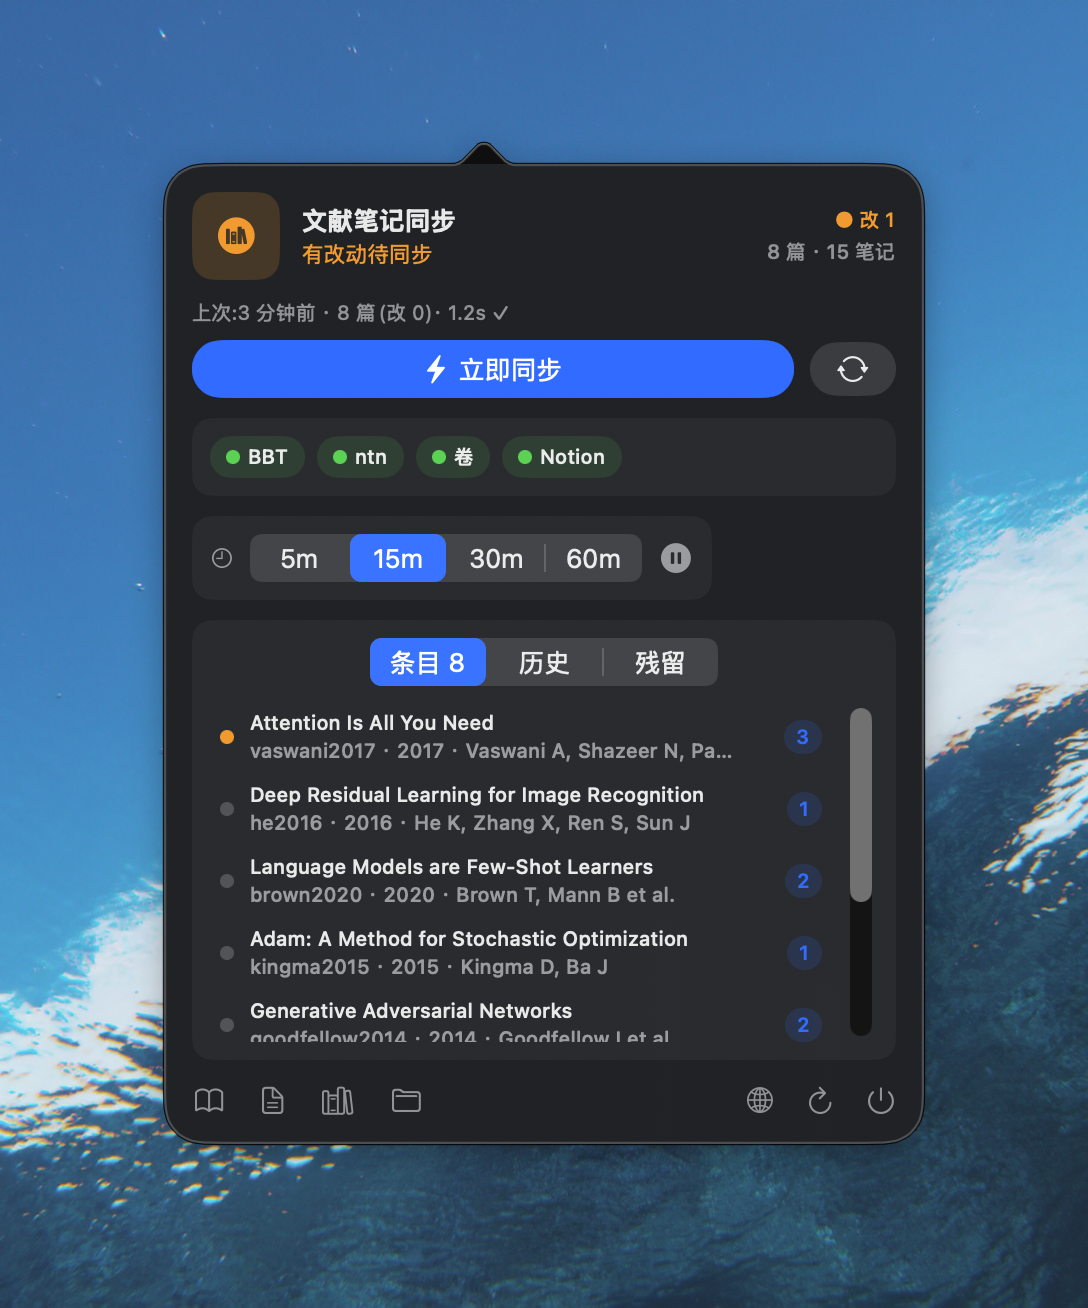
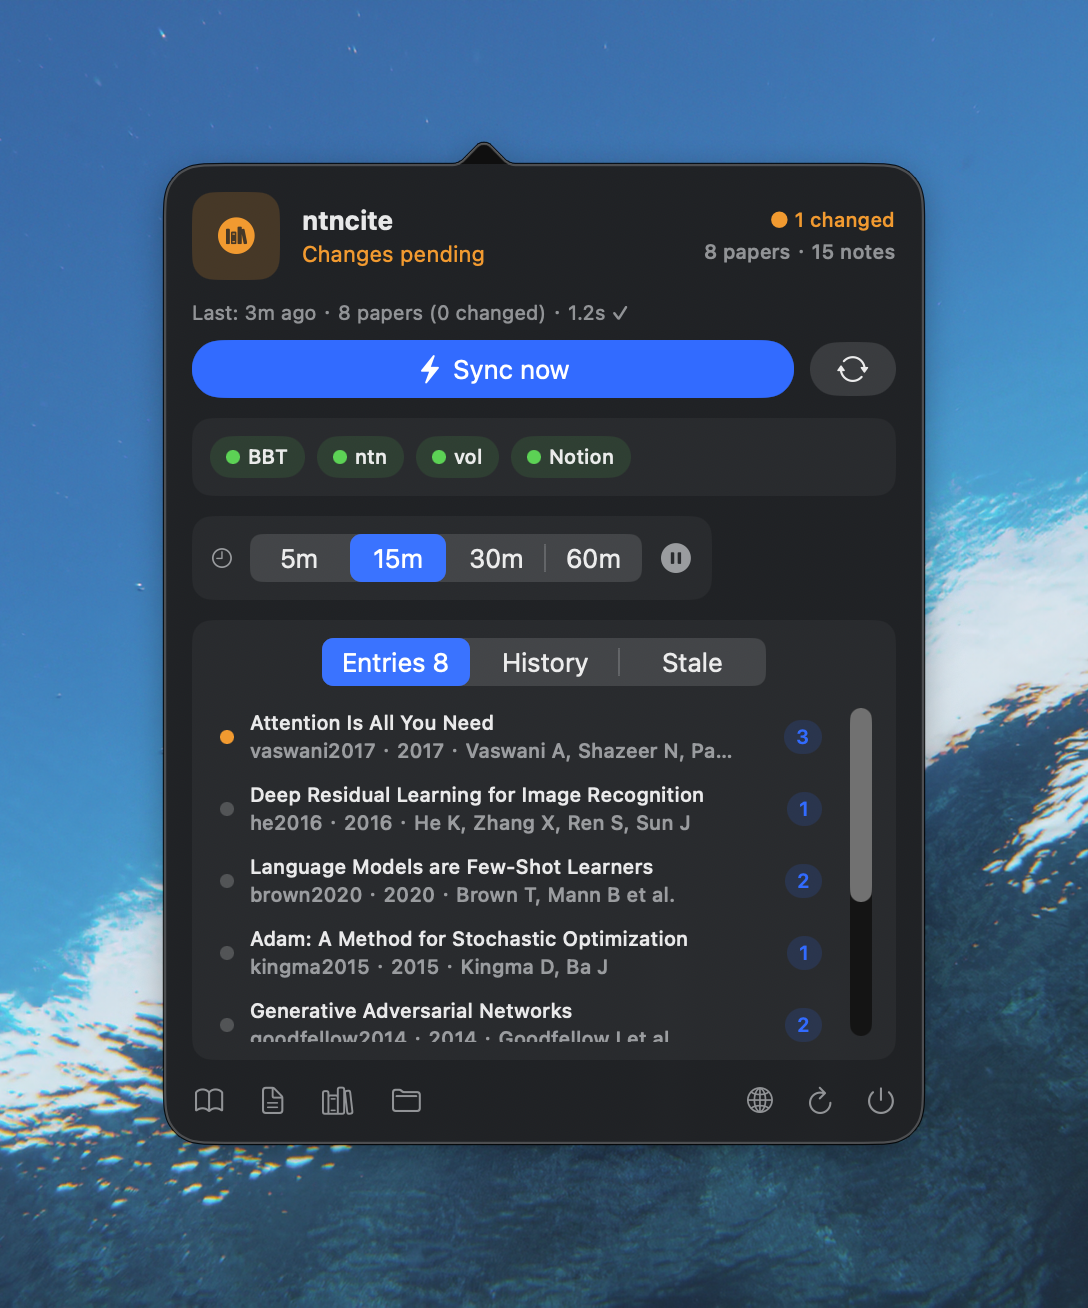
docs: English front-page screenshot + pin ntn install command in both READMEs
- README.md now shows the English menu-bar shot (docs/menubar.png); the Chinese shot moves
  to docs/menubar.zh-CN.png, referenced by README.zh-CN.md. Both are the current UI (Stale
  tab, pending detail, per-paper state dots), demo data.
- Prerequisites + Troubleshooting in both READMEs now give the concrete install command
  (curl -fsSL https://ntn.dev | bash) instead of 'install Notion's ntn CLI'.

diff --git a/README.zh-CN.md b/README.zh-CN.md
@@ -18,7 +18,7 @@
 ## 截图
 
 <p align="center">
-  <img src="docs/menubar.png" alt="ntncite 菜单栏 App" width="380">
+  <img src="docs/menubar.zh-CN.png" alt="ntncite 菜单栏 App" width="380">
 </p>
 
 > 截图用的是 **demo 数据**(著名公开论文)。零配置预览界面:
@@ -81,8 +81,8 @@ Zotero (zotero.sqlite, 只读)            Better BibTeX JSON-RPC (:23119)
 - **Zotero** 开着(在 9.x 上测过)+ **Better BibTeX** 插件(同步靠 BBT 的 JSON-RPC :23119 解析
   citekey,所以 Zotero 必须开着)。
 - **Node 22+** 和 **pnpm**。
-- **`ntn`**(Notion 官方 CLI)已安装并登录(`ntn api v1/users/me` 能返回你的账号)。写 Notion 靠它,
-  不需要 integration token。
+- **`ntn`**(Notion 官方 CLI)已安装并登录。用 `curl -fsSL https://ntn.dev | bash`(或 `npm install --global ntn`)
+  装,再 `ntn login`;`ntn api v1/users/me` 能返回你的账号即可。写 Notion 靠它,不需要 integration token。
 
 ## 安装
 
@@ -181,7 +181,7 @@ item key 匹配,用 content hash 判断该页要 create / skip(无变化)/ updat
 
 ## 排错
 
-- **`ntn: command not found` / 没登录** —— 装上 Notion 的 `ntn` CLI 并 `ntn login`;`ntn api v1/users/me` 能返回你的账号即可。
+- **`ntn: command not found` / 没登录** —— 装上 Notion 的 `ntn` CLI(`curl -fsSL https://ntn.dev | bash`)并 `ntn login`;`ntn api v1/users/me` 能返回你的账号即可。
 - **什么都没同步** —— 只同步**有笔记**的论文(即「在读」)。先在 Zotero 里给它写条笔记。
 - **同步中止 / 连不上 `BBT JSON-RPC`** —— Zotero 必须**开着**且装了 Better BibTeX(它在 `:23119` 提供 citekey)。开 Zotero 再试。
 - **`schema validation failed: missing field …`** —— Notion 库缺了某个属性。重跑 `pnpm setup-db`,或手动补上(名字要跟上面 schema 表**完全一致**)。

diff --git a/README.md b/README.md
@@ -83,8 +83,9 @@ Two parts:
 - **Zotero** running (tested on 9.x), with the **Better BibTeX** plugin (the sync reads citekeys via
   BBT's JSON-RPC on `:23119`, so Zotero must be open).
 - **Node 22+** and **pnpm**.
-- **`ntn`** — Notion's official CLI — installed and logged in (`ntn api v1/users/me` returns your account).
-  This is how it writes to Notion; no integration token needed.
+- **`ntn`** — Notion's official CLI — installed and logged in. Install with `curl -fsSL https://ntn.dev | bash`
+  (or `npm install --global ntn`), then `ntn login`; `ntn api v1/users/me` should return your account. This is
+  how it writes to Notion; no integration token needed.
 
 ## Setup
 
@@ -187,7 +188,7 @@ Rule of thumb: treat the page **body** as read-only. Keep your own notes in Zote
 
 ## Troubleshooting
 
-- **`ntn: command not found` / not authenticated** — install Notion's `ntn` CLI and run `ntn login`; `ntn api v1/users/me` should return your account.
+- **`ntn: command not found` / not authenticated** — install it (`curl -fsSL https://ntn.dev | bash`) and run `ntn login`; `ntn api v1/users/me` should return your account.
 - **Nothing syncs** — only papers that have a **note** are synced (that's "currently reading"). Add a note in Zotero first.
 - **Sync aborts / `BBT JSON-RPC` unreachable** — Zotero must be **running** with Better BibTeX (it serves citekeys on `:23119`). Open Zotero and retry.
 - **`schema validation failed: missing field …`** — your Notion DB is missing a property. Re-run `pnpm setup-db`, or add the property by hand (names must match the schema table above exactly).
